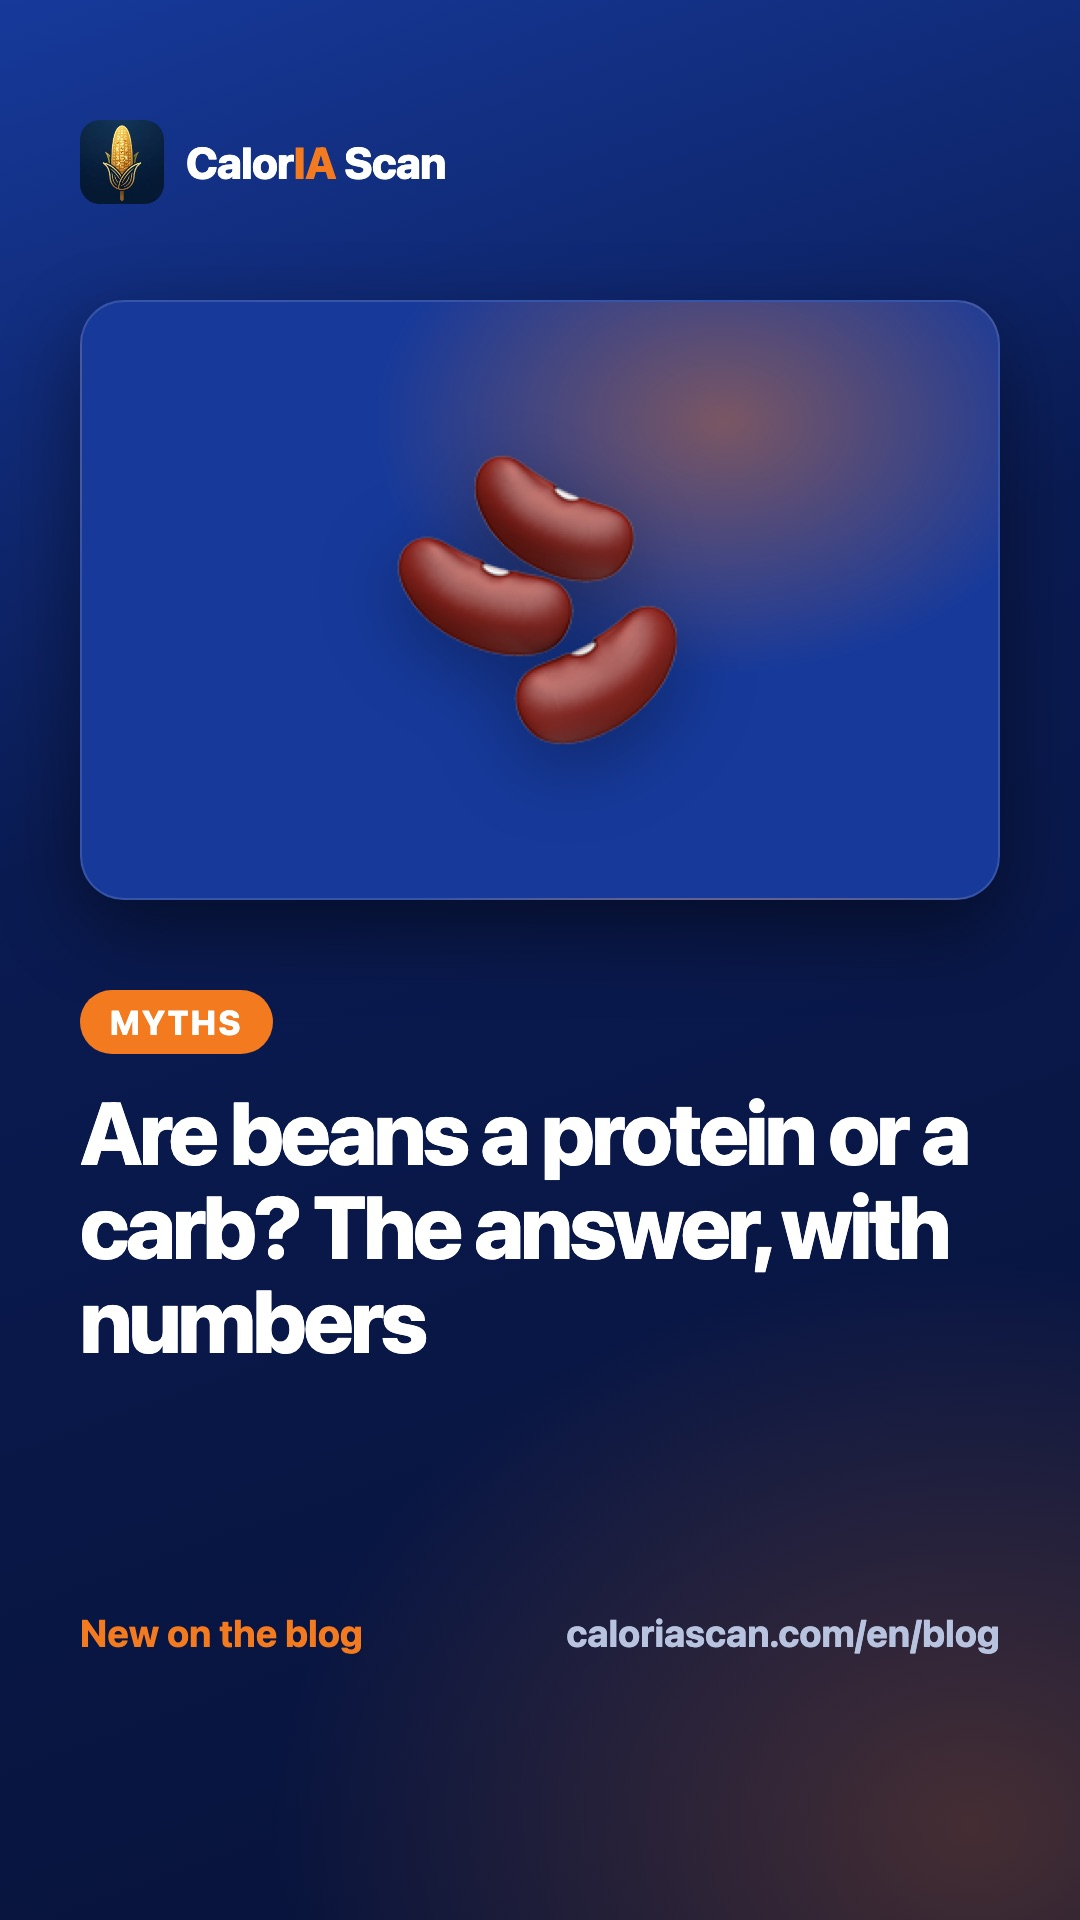
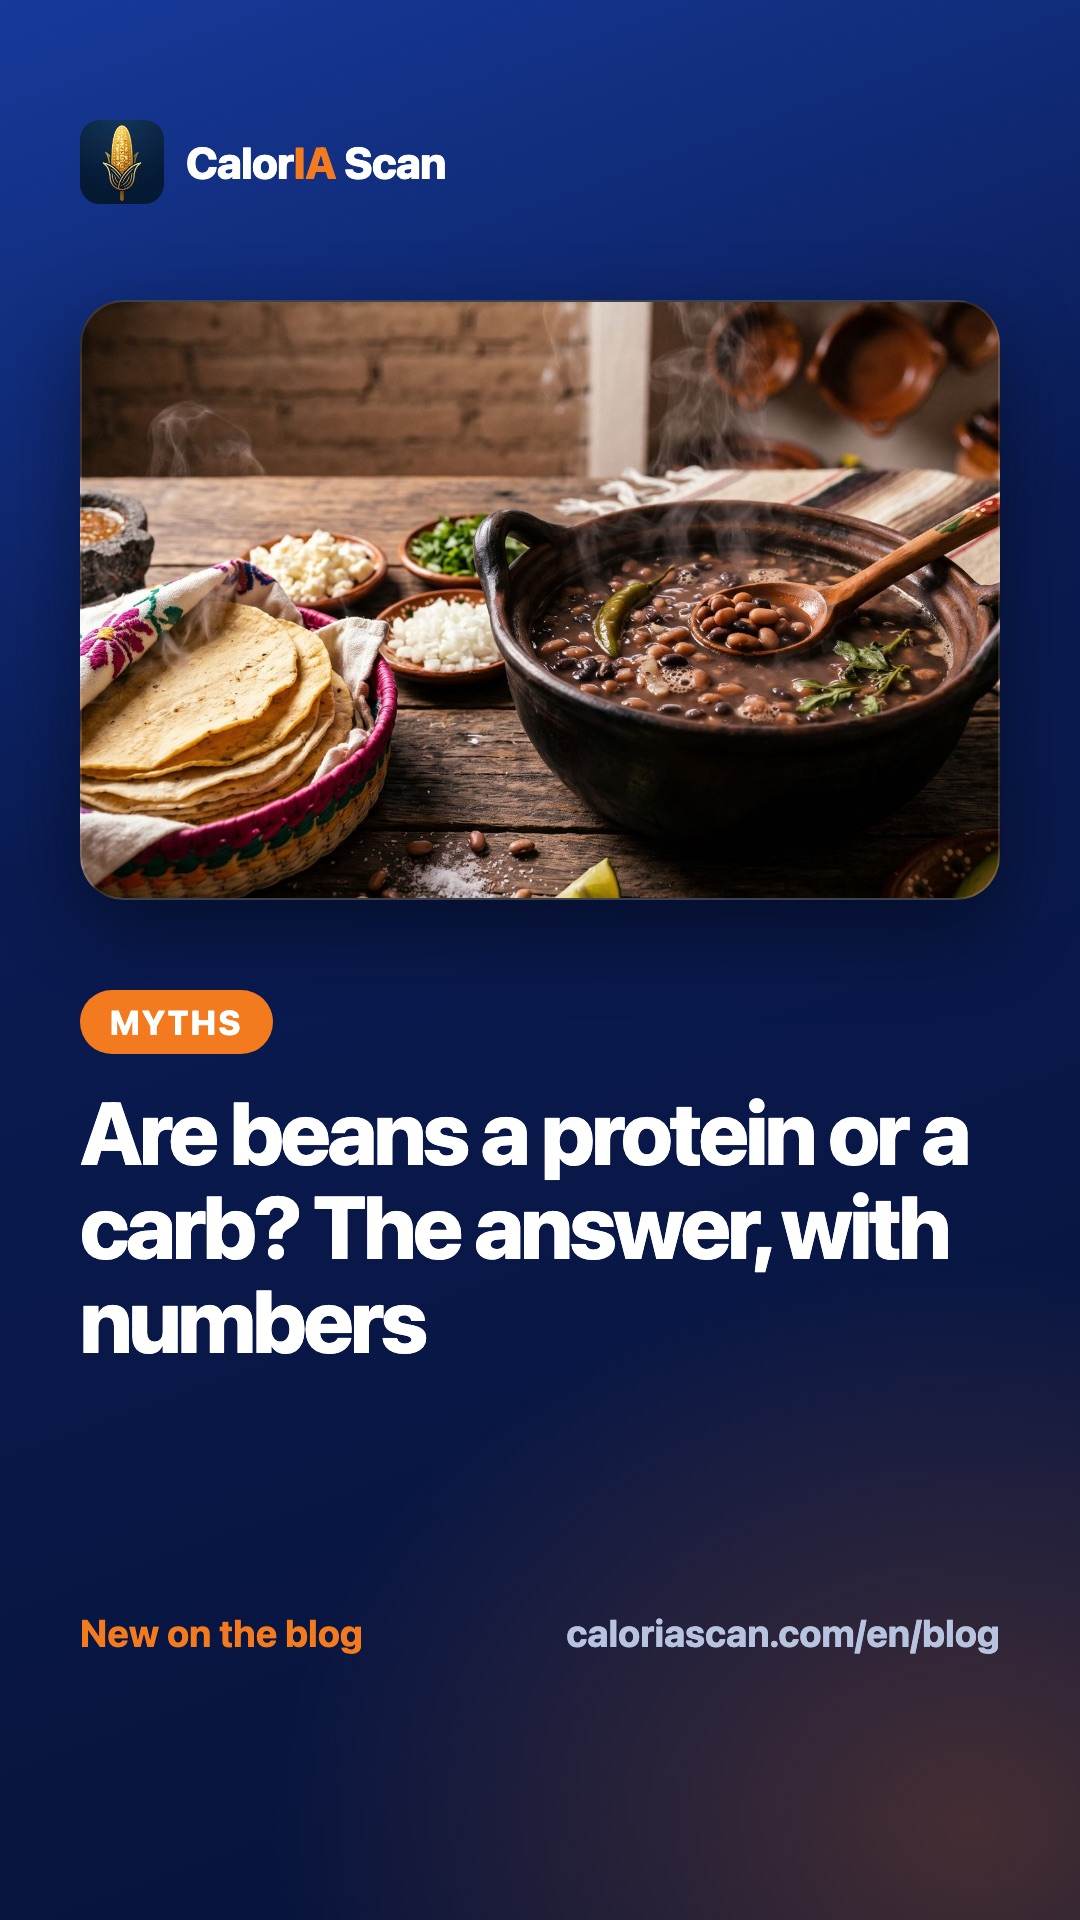
Blog: add the hero photo to the beans article (ES/EN)
Frijoles de la olla with tortillas, provided by CalorIA Scan, cropped to
16:9 at 1600x900. Updates the article pages, the Latest article card on both
hubs, and the share and story images.

Changed region(s): [[0.0611, 0.1562, 0.9472, 0.4688]]

diff --git a/blog/frijoles-proteina-o-carbohidrato.html b/blog/frijoles-proteina-o-carbohidrato.html
@@ -135,7 +135,7 @@ footer{font-size:13px;color:var(--mut);margin-top:16px}footer a{color:var(--mut)
 <p class="dek">Es una de las dudas de nutrición que más crece en las búsquedas en México. Los frijoles son las dos cosas, y saber cuánto aportan de cada una te ayuda a armar mejor tu plato.</p>
 <p class="meta">Por CalorIA Scan · 11 de noviembre de 2026 · 4 min de lectura</p>
 <div class="med-note" role="note"><span class="med-i" aria-hidden="true">i</span><div><b>Información, no consejo médico.</b> Consulta a un médico o nutriólogo antes de cambiar tu dieta, sobre todo si tienes alguna condición de salud.<small>Fuentes consultadas al publicar (11 de noviembre de 2026) · <a href="/terms">Ver términos</a></small></div></div>
-
+<img class="hero" src="/blog/img/frijoles-proteina-o-carbohidrato.jpg" alt="¿Los frijoles son proteína o carbohidrato? La respuesta, con números" width="1200" height="675" loading="eager">
 <div class="tldr"><h2>En resumen</h2><ul><li>Son las dos cosas: una taza de frijoles negros cocidos tiene unos 41 g de carbohidratos (15 de ellos, fibra) y 15 g de proteína, según el USDA.</li><li>Por calorías pesan más los carbohidratos: cerca de 7 de cada 10 calorías del frijol vienen de ahí, y casi 3 de cada 10, de la proteína.</li><li>Por eso las guías los ponen aparte: en el Plato del Bien Comer de 2023, las leguminosas tienen su propio grupo, y la guía de Estados Unidos los cuenta como verdura o como proteína.</li><li>Con la tortilla hacen equipo: el maíz y el frijol se complementan en los aminoácidos que a cada uno le faltan.</li></ul><a class="tldr-jump" href="#que-hace-caloria-scan">Ir a: Qué puede hacer CalorIA Scan por ti ↓</a></div>
 <h2>La respuesta corta: las dos cosas</h2><p>Los frijoles son una leguminosa, y las leguminosas no caben en una sola caja. Según el USDA, cada 100 g de frijol negro cocido tienen unas 132 kcal, 23.7 g de carbohidratos (8.7 de ellos, fibra), 8.9 g de proteína y apenas medio gramo de grasa. Una taza (172 g) son unas 227 kcal, 41 g de carbohidratos, 15 g de fibra y 15 g de proteína.</p><p>Si lo vemos por calorías, cerca de 7 de cada 10 vienen de los carbohidratos y casi 3 de cada 10, de la proteína. En sentido estricto, aportan más carbohidratos que proteína. Pero no son un carbohidrato cualquiera: una buena parte es fibra, el nutriente que <a href="/blog/fibra-nutriente-que-falta">casi nadie come suficiente</a>.</p>
 <h2>Por qué las guías los ponen aparte</h2><p>En el nuevo Plato del Bien Comer de las Guías Alimentarias para la población mexicana (2023), las leguminosas tienen su propio grupo, separado de los cereales y de los alimentos de origen animal.</p><p>En MyPlate, la guía de Estados Unidos, los frijoles, los chícharos y las lentejas cuentan en dos grupos: como verdura y como proteína. Su regla es práctica: si ya comes suficiente proteína de otras fuentes, los cuentas como verdura; si te falta, como proteína.</p>

diff --git a/en/blog/frijoles-proteina-o-carbohidrato.html b/en/blog/frijoles-proteina-o-carbohidrato.html
@@ -135,7 +135,7 @@ footer{font-size:13px;color:var(--mut);margin-top:16px}footer a{color:var(--mut)
 <p class="dek">It's one of the fastest-growing nutrition questions in Mexican searches. Beans are both, and knowing how much of each they give you helps you build a better plate.</p>
 <p class="meta">By CalorIA Scan · November 11, 2026 · 4 min read</p>
 <div class="med-note" role="note"><span class="med-i" aria-hidden="true">i</span><div><b>Informational, not medical advice.</b> Consult a doctor or registered dietitian before changing your diet, especially with a pre-existing condition.<small>Sources checked at publication (November 11, 2026) · <a href="/en/terms">See terms</a></small></div></div>
-
+<img class="hero" src="/blog/img/frijoles-proteina-o-carbohidrato.jpg" alt="Are beans a protein or a carb? The answer, with numbers" width="1200" height="675" loading="eager">
 <div class="tldr"><h2>The short version</h2><ul><li>They're both: a cup of cooked black beans has about 41 g of carbs (15 of them fiber) and 15 g of protein, according to the USDA.</li><li>By calories, carbs weigh more: about 7 in 10 calories in beans come from carbs, and nearly 3 in 10 from protein.</li><li>That's why dietary guides treat them separately: in Mexico's 2023 healthy plate, legumes have their own group, and the U.S. guide counts them as a vegetable or a protein.</li><li>With tortillas they make a team: corn and beans complement each other in the amino acids each one lacks.</li></ul><a class="tldr-jump" href="#que-hace-caloria-scan">Jump to: What CalorIA Scan does for you ↓</a></div>
 <h2>The short answer: both</h2><p>Beans are a legume, and legumes don't fit in a single box. According to the USDA, 100 g of cooked black beans has about 132 kcal, 23.7 g of carbohydrate (8.7 of it fiber), 8.9 g of protein and barely half a gram of fat. A cup (172 g) is about 227 kcal, 41 g of carbs, 15 g of fiber and 15 g of protein.</p><p>Looked at by calories, about 7 in 10 come from carbohydrate and nearly 3 in 10 from protein. Strictly speaking, beans provide more carbs than protein. But they aren't just any carb: a good share is fiber, the nutrient <a href="/en/blog/fibra-nutriente-que-falta">almost nobody gets enough of</a>.</p>
 <h2>Why dietary guides set them apart</h2><p>In the new Plato del Bien Comer, the healthy plate of Mexico's 2023 dietary guidelines, legumes have their own group, separate from grains and from animal foods.</p><p>In MyPlate, the U.S. guide, beans, peas and lentils count in two groups: as a vegetable and as a protein. Its rule is practical: if you already get enough protein from other foods, count them as a vegetable; if you're short, count them as protein.</p>

diff --git a/blog/index.html b/blog/index.html
@@ -191,7 +191,7 @@ footer{padding:40px 20px 28px;text-align:center;border-top:.5px solid var(--line
 <section class="featured-wrap" id="catalogo">
   <div class="eyebrow">Último artículo</div>
   <a class="featured" href="/blog/frijoles-proteina-o-carbohidrato">
-    <div class="featured-img logo"><div class="logo-badge"><img src="/assets/icon-app.png" alt="CalorIA Scan"></div></div>
+    <div class="featured-img"><img src="/blog/img/frijoles-proteina-o-carbohidrato.jpg" alt="¿Los frijoles son proteína o carbohidrato? La respuesta, con números"></div>
     <div class="featured-body">
       <div class="badge-row">
         <span class="badge" style="color:var(--orange);background:rgba(204,85,0,.10)">🫘 Mitos</span>

diff --git a/en/blog/index.html b/en/blog/index.html
@@ -191,7 +191,7 @@ footer{padding:40px 20px 28px;text-align:center;border-top:.5px solid var(--line
 <section class="featured-wrap" id="catalog">
   <div class="eyebrow">Latest article</div>
   <a class="featured" href="/en/blog/frijoles-proteina-o-carbohidrato">
-    <div class="featured-img logo"><div class="logo-badge"><img src="/assets/icon-app.png" alt="CalorIA Scan"></div></div>
+    <div class="featured-img"><img src="/blog/img/frijoles-proteina-o-carbohidrato.jpg" alt="Are beans a protein or a carb? The answer, with numbers"></div>
     <div class="featured-body">
       <div class="badge-row">
         <span class="badge" style="color:var(--orange);background:rgba(204,85,0,.10)">🫘 Myths</span>
